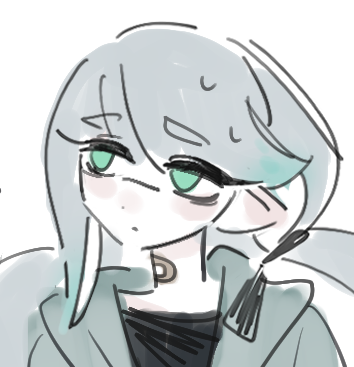
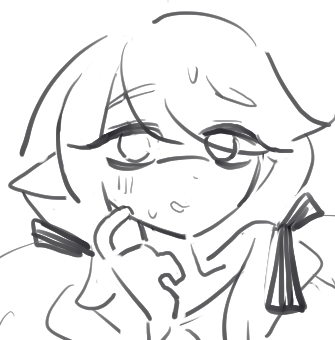
RF new pic

diff --git a/data/oc-splatoon.js b/data/oc-splatoon.js
@@ -224,7 +224,7 @@ const SPLAT_CHARA_ROSTER = {
             relationships: [
                 {Yoni: "親弟弟，對方從小就好動而需要常常看管他。一直以來都對他很關心，兩人的感情原本很不錯，後來因為某些原因出現了裂痕。"},
                 {Hannah: "從小就熟識的老朋友，以前就經常會一起雙人排位，兩人之間有種沉默的默契。"},
-                {Amy: "因RF的成立而認識，是自己隊裡的經紀人。也許是看她總是默默一人忙碌還常被騷擾而對她特別關照。出於各種原因經常會不由自主地觀察她。"},                
+                {Amy: "因RF的成立而認識，是自己隊裡的經紀人。也許是看她總是默默一人忙碌還常被騷擾而對她特別關照。出於某些原因對她有點在意，會不由自主地觀察她。"},                
                 {Roy: "因RF的成立而認識，雖然不確定他為何處處針對自己，但還是視對方為伙伴跟朋友。經常得在他衝動時負責制住他。"},
                 {Minerva: "因RF的成立而認識，對戰上默契不錯。晚期的劇情中兩人成為警察同事。"},
             ],
@@ -271,11 +271,11 @@ const SPLAT_CHARA_ROSTER = {
                 "他代表的按鈕是R鍵，因此以R作為名字開頭",
                 "他在皇家同花順中代表的牌是Jack",
                 "他比蘭斯跟艾咪小兩歲",
-                "他的皮膚紋路是由白蝕症造成的"
+                "他的皮膚上的紋路是由白蝕症造成的"
             ],
             relationships: [
                 {Amy: "在RF成立之前似乎互不相認識。不知是出自什麼心態總是會特別會講一些刻薄的話來糗她，但又意外的很聽她的話…？"},
-                {Lance: "因為跟他起衝突才認識並進入RF。經常挑釁跟捉弄對方，總想跟他拼個高下，似乎有點享受這種較勁的感覺。"},
+                {Lance: "因為跟他起衝突才認識並進入RF。經常挑釁跟捉弄對方，不管是什麼事都想跟他拼個高下，似乎有點享受這種較勁的感覺。"},
                 {Paul: "當鋪的老闆，自己的上司，對他還算聽話，覺得每次上班都會被抓去揉頭有點煩。"}
             ],
             variant:[
